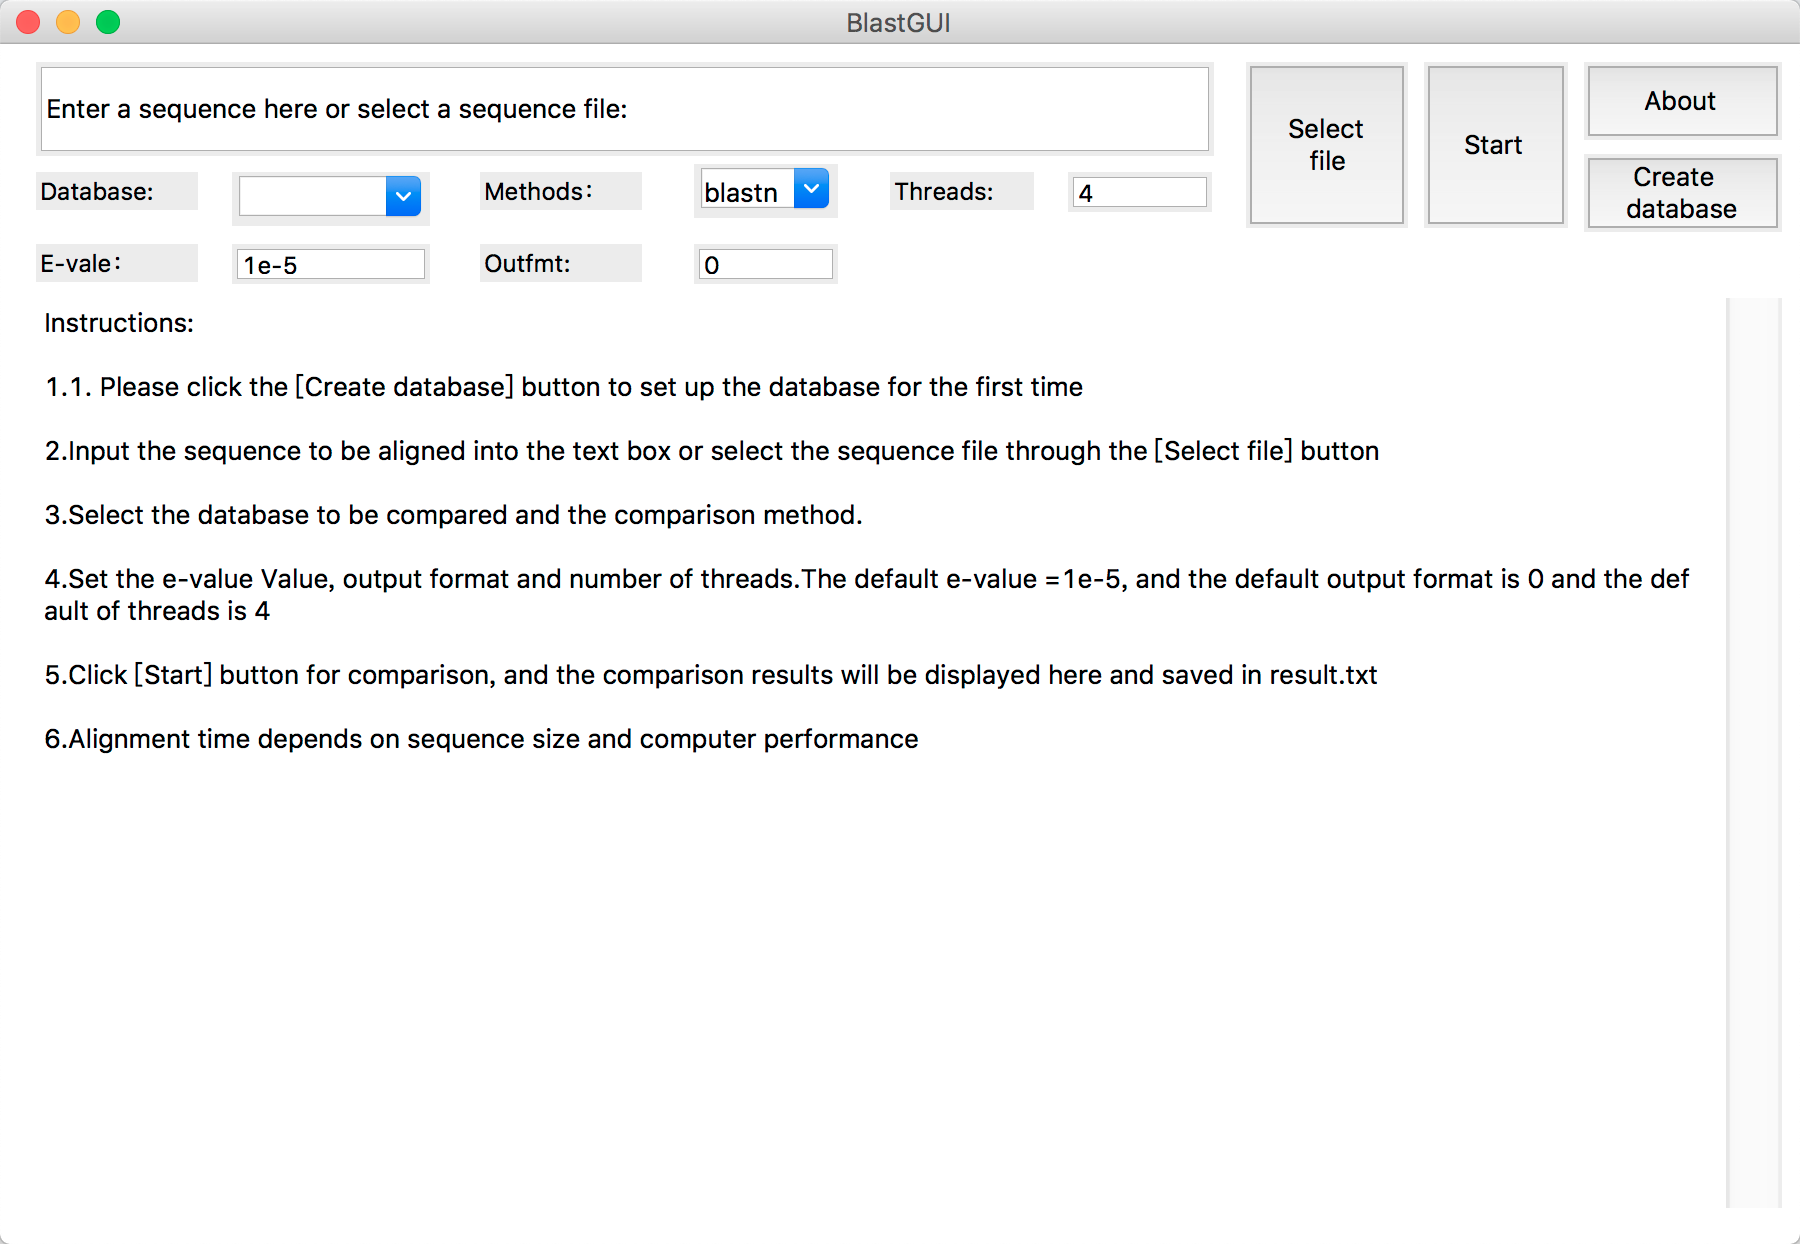
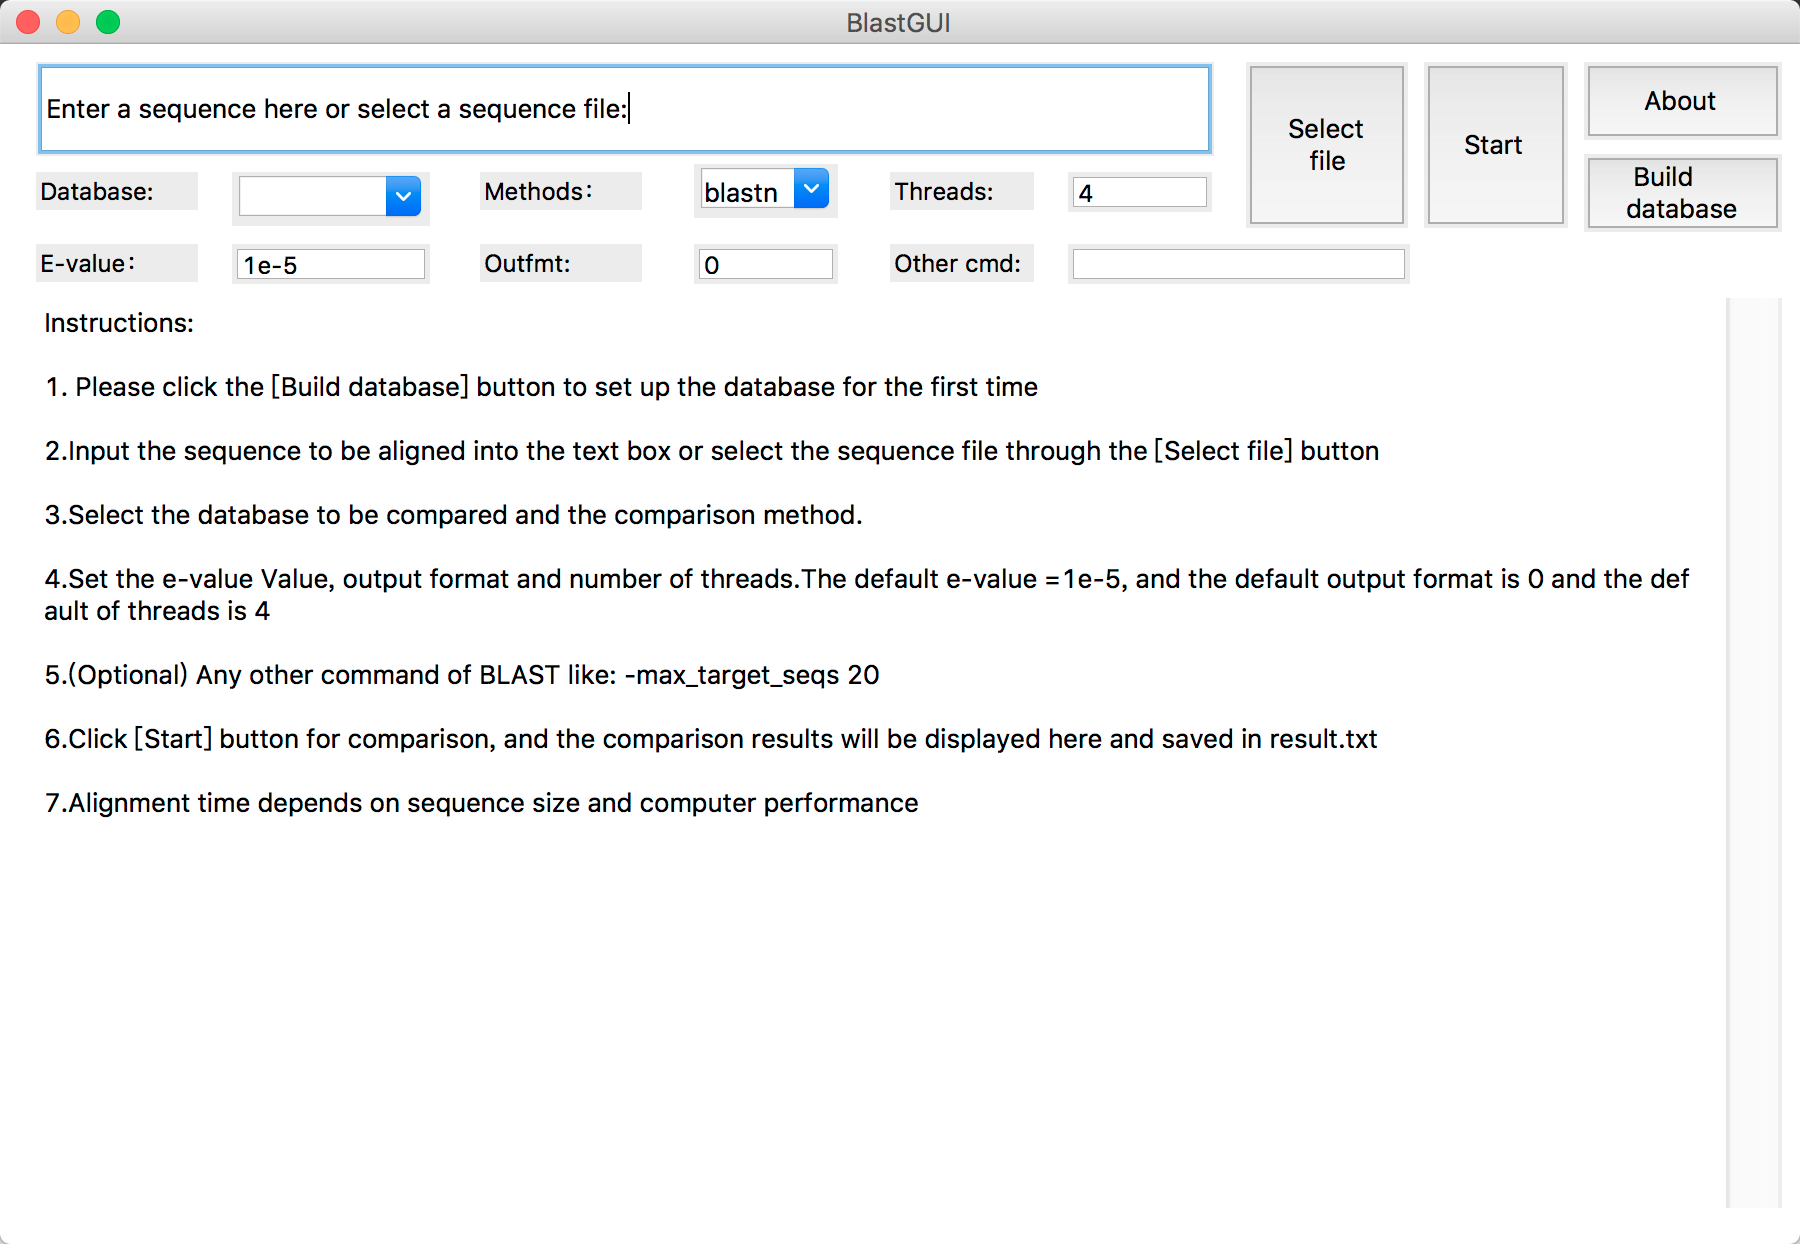
Add files via upload

diff --git a/BlastGUI/blastGUI_1.0.py b/BlastGUI/blastGUI_1.0.py
@@ -1,0 +1,282 @@
+#!/usr/bin/env python
+# -*- coding:utf-8 -*-
+# Author：Wu Qing
+# E-mail: cipn@qq.com
+
+import os
+import re
+import subprocess
+from tkinter import *
+from tkinter.font import Font
+from tkinter.ttk import *
+from tkinter.messagebox import *
+import tkinter.filedialog
+import tkinter.simpledialog
+from tkinter.ttk import Style
+import shutil
+
+
+def make_db():
+    def make_db_button_cmd():
+        if fndb == '':
+            return showinfo(title='warning', message='The build database file is not selected!')
+        if mkdb_type.get() != 'Nucleic acid sequence' and mkdb_type.get() != 'Protein sequence':
+            return showinfo(title='warning', message='The database type is not selected!')
+        if db_name_input.get() == '':
+            return showinfo(title='warning', message='Database name is not set!')
+        if mkdb_type.get() == 'Nucleic acid sequence':
+            t = 'nucl'
+        if mkdb_type.get() == 'Protein sequence':
+            t = 'prot'
+        n = db_name_input.get()
+        p = subprocess.Popen(
+            "makeblastdb -parse_seqids -in " + fndb + " -dbtype " + t + " -title " + n + " -out " + n,
+            shell=True, stdout=subprocess.PIPE)
+        p.wait()
+        out = p.stdout.readlines()
+        if p.returncode == 0:
+            showinfo(title="info", message="Database builded successfully!")
+            makedb_state.delete(0.0, END)
+            for line in out:
+                makedb_state.insert("insert", line)
+        else:
+            showinfo(title="info", message="Database creation failed!")
+
+    def select_fadb_button_cmd():
+        global fndb
+        fndb = tkinter.filedialog.askopenfilename()
+        make_db_label.config(text="The files you selected:\n" + fndb)
+
+    def mkdb_instruction():
+        makedb_state.insert('1.0', "1. Click select file button to select FASTA file \n\n2. Select database type \n\
+            \n3. Enter the name of the database (no Spaces)\n\
+            \n4. Click Build database button to start database building \n\
+            \n5.After the database construction is completed, please restart this program to refresh the database list")
+
+    dbwindow = Tk()
+    dbwindow.title('Build database')
+    dbwindow.geometry('600x400')
+
+    mkdb_typeList = ['Nucleic acid sequence', 'Protein sequence', ]
+    mkdb_type = Combobox(dbwindow, text='Nucleic acid sequence', values=mkdb_typeList, font=('', 13))
+    mkdb_type.place(relx=0.394, rely=0.192, relwidth=0.251)
+
+    makedb_stateFont = Font(font=('', 13))
+    makedb_state = Text(dbwindow, font=makedb_stateFont)
+    makedb_state.place(relx=0.041, rely=0.505, relwidth=0.915, relheight=0.435)
+    mkdb_instruction()
+
+    style.configure('Tmake_db_button.TButton', font=('', 13))
+    make_db_button = Button(dbwindow, text='Build database', command=make_db_button_cmd, style='Tmake_db_button.TButton')
+    make_db_button.place(relx=0.705, rely=0.216, relwidth=0.251, relheight=0.219)
+
+    db_name_inputVar = StringVar(value='db')
+    db_name_input = Entry(dbwindow, textvariable=db_name_inputVar, font=('', 13))
+    db_name_input.place(relx=0.394, rely=0.336, relwidth=0.251, relheight=0.099)
+
+    style.configure('Tselect_fadb_button.TButton', font=('', 13))
+    select_fadb_button = Button(dbwindow, text='Select file', command=select_fadb_button_cmd, style='Tselect_fadb_button.TButton')
+    select_fadb_button.place(relx=0.705, rely=0.048, relwidth=0.251, relheight=0.123)
+
+    style.configure('Tdb_type_label.TLabel', anchor='w', font=('', 13))
+    db_type_label = Label(dbwindow, text='Select database type', style='Tdb_type_label.TLabel')
+    db_type_label.place(relx=0.041, rely=0.192, relwidth=0.272, relheight=0.099)
+
+    style.configure('Tdb_name.TLabel', anchor='w', font=('', 13))
+    db_name = Label(dbwindow, text='Set database name', style='Tdb_name.TLabel')
+    db_name.place(relx=0.041, rely=0.336, relwidth=0.272, relheight=0.099)
+
+    style.configure('Tmake_db_label.TLabel', anchor='center', font=('', 13))
+    make_db_label = Label(dbwindow, text='You did not select any files', style='Tmake_db_label.TLabel')
+    make_db_label.place(relx=0.041, rely=0.048, relwidth=0.602, relheight=0.105)
+
+    dbwindow.mainloop()
+
+
+def get_fasta():
+    input = fa_input.get()
+    tmp = ''.join(re.findall(r'[A-Za-z]', input))
+    if tmp == '':
+        showinfo(title='warning', message='Please enter the correct sequence')
+        return 1
+    else:
+        #tmp = str.upper(tmp)
+        with open("tmp.txt", "w+") as f:
+            f.write(tmp)
+        return 0
+
+
+
+# get database name list
+def get_db_name():
+    namelist = []
+    for fn in os.listdir(os.getcwd()):
+        if os.path.splitext(fn)[1] == '.phr' or os.path.splitext(fn)[1] == '.nhr':
+            fn = os.path.splitext(fn)[0]
+            namelist.append(fn)
+    return namelist
+
+
+# blast process
+def star():
+    fnfa_stat = "The files you selected:" + fnfa
+    fain_stat = fa_input.get()
+
+    if fnfa_stat == fain_stat:
+        fa = fnfa
+    else:
+        fa = 'tmp.txt'
+
+    b = subprocess.Popen(blast_type.get() + " -out result.txt -query " + fa + " -outfmt " + outfmt_input.get() +
+                         " -evalue " + evalue.get() + " -db " + db_type.get() + ' -num_threads ' + threat_input.get() + 
+                         ' ' + othercmd_input.get(),
+                         shell=True, stdout=subprocess.PIPE)
+    b.wait()
+
+    if b.returncode == 0:
+        result_output.delete(0.0, END)
+        with open("result.txt", "r") as result:
+            for line in result:
+                result_output.insert('insert', line)
+    else:
+        showinfo(title='warning', message='Wrong alignment!\nPlease make sure the parameters are set correctly!')
+
+
+def star_blast_cmd():
+    try:
+        os.remove((os.path.join(os.getcwd(), 'tmp.txt')))
+        os.remove((os.path.join(os.getcwd(), 'result.txt')))
+    finally:
+        if get_fasta() == 1:
+            return 1
+        if get_fasta() == 0:
+            star()
+            return 0
+
+
+def select_fa_button_Cmd():
+    global fnfa
+    fnfa = tkinter.filedialog.askopenfilename()
+    fa_input.delete(0, END)
+    if fnfa != '':
+        fa_input.insert(END, "The files you selected:" + fnfa)
+    else:
+        fa_input.insert(END, "Enter a sequence here or select a sequence file:")
+    pass
+
+
+
+def about_cmd():
+    showinfo(title='Abount', message='BlstaGUI\n\nAuthor：Wu Qing\n\nSichuan agricultural university,China\n\nVersion:V1.0')
+
+
+def main_instructions():
+    result_output.insert('1.0', 'Instructions:\n\n1. Please click the [Build database] button to set up the database for the first time\n \
+    \n2.Input the sequence to be aligned into the text box or select the sequence file through the [Select file] button \
+     \n\n3.Select the database to be compared and the comparison method.\n\n4.Set the e-value Value, output format and number of threads.The default e-value =1e-5, and the default output format is 0 and the default of threads is 4\n \
+     \n5.(Optional) Any other command of BLAST like: -max_target_seqs 20 \n\n6.Click [Start] button for comparison, and the comparison results will be displayed here and saved in result.txt\n\n7.Alignment time depends on sequence size and computer performance \
+     \n')
+
+
+def mkdb_window_cmd():
+    make_db()
+
+
+top = Tk()
+top.title('BlastGUI')
+top.geometry('900x600')
+
+style = Style()
+fnfa = ''
+fndb = ''
+
+db_typeList = get_db_name()
+db_type = Combobox(top, text='Select', values=db_typeList, font=('', 13))
+db_type.place(relx=0.129, rely=0.106, relwidth=0.11)
+
+blast_typeList = ['blastn', 'blastp', 'blastx', 'tblastn', 'tblastx', ]
+blast_typeVar = StringVar(value='blastn')
+blast_type = Combobox(top, textvariable=blast_typeVar, values=blast_typeList, font=('', 13))
+blast_type.place(relx=0.386, rely=0.1, relwidth=0.08)
+
+reault_scroll1 = Scrollbar(top, orient='vertical')
+reault_scroll1.place(relx=0.959, rely=0.212, relwidth=0.031, relheight=0.758)
+
+evalueVar = StringVar(value='1e-5')
+evalue = Entry(top, textvariable=evalueVar, font=('', 12))
+evalue.place(relx=0.129, rely=0.166, relwidth=0.11, relheight=0.034)
+
+result_outputFont = Font(font=('', 13))
+result_output = Text(top, yscrollcommand=reault_scroll1.set, font=result_outputFont)
+result_output.place(relx=0.02, rely=0.212, relwidth=0.931, relheight=0.773)
+main_instructions()
+reault_scroll1['command'] = result_output.yview
+
+star_blastVar = StringVar(value='Start')
+style.configure('Tstar_blast.TButton', background='#000000', font=('', 13))
+star_blast = Button(top, text='Start', textvariable=star_blastVar, command=star_blast_cmd, style='Tstar_blast.TButton')
+star_blast.place(relx=0.791, rely=0.015, relwidth=0.08, relheight=0.138)
+
+
+style.configure('Tselect_fa_button.TButton', background='#000000', font=('', 13))
+select_fa_button = Button(top, text='Select\n   file', command=select_fa_button_Cmd,
+                          style='Tselect_fa_button.TButton')
+select_fa_button.place(relx=0.692, rely=0.015, relwidth=0.09, relheight=0.138)
+
+fa_inputVar = StringVar(value='Enter a sequence here or select a sequence file:')
+fa_input = Entry(top, textvariable=fa_inputVar, font=('', 13))
+fa_input.place(relx=0.02, rely=0.015, relwidth=0.654, relheight=0.078)
+
+aboutVar = StringVar(value='About')
+style.configure('Tabout.TButton', font=('', 13))
+about = Button(top, text='About', textvariable=aboutVar, command=about_cmd, style='Tabout.TButton')
+about.place(relx=0.88, rely=0.015, relwidth=0.11, relheight=0.065)
+
+mkdb_windowVar = StringVar(value=' Build\ndatabase')
+style.configure('Tmkdb_window.TButton', font=('', 13))
+mkdb_window = Button(top, text='Build database', textvariable=mkdb_windowVar, command=mkdb_window_cmd, style='Tmkdb_window.TButton')
+mkdb_window.place(relx=0.88, rely=0.091, relwidth=0.11, relheight=0.065)
+
+evalue_labelVar = StringVar(value='E-value：')
+style.configure('Tevalue_label.TLabel', anchor='w', font=('', 12))
+evalue_label = Label(top, text='E-value', textvariable=evalue_labelVar, style='Tevalue_label.TLabel')
+evalue_label.place(relx=0.02, rely=0.166, relwidth=0.09, relheight=0.032)
+
+blast_select_labelVar = StringVar(value='Methods：')
+style.configure('Tblast_select_label.TLabel', anchor='w', font=('', 12))
+blast_select_label = Label(top, text='Methods', textvariable=blast_select_labelVar, style='Tblast_select_label.TLabel')
+blast_select_label.place(relx=0.267, rely=0.106, relwidth=0.09, relheight=0.032)
+
+db_selectVar = StringVar(value='Database:')
+style.configure('Tdb_select.TLabel', anchor='w', font=('', 12))
+db_select = Label(top, text='Database', textvariable=db_selectVar, style='Tdb_select.TLabel')
+db_select.place(relx=0.02, rely=0.106, relwidth=0.09, relheight=0.032)
+
+outfmt_labelVar = StringVar(value='Outfmt:')
+style.configure('Toutfmt_label.TLabel', anchor='w', font=('', 12))
+outfmt_label = Label(top, text='Outfmt', textvariable=outfmt_labelVar, style='Toutfmt_label.TLabel')
+outfmt_label.place(relx=0.267, rely=0.166, relwidth=0.09, relheight=0.032)
+
+outfmt_inputVar = StringVar(value='0')
+outfmt_input = Entry(top, textvariable=outfmt_inputVar, font=('', 12))
+outfmt_input.place(relx=0.386, rely=0.166, relwidth=0.08, relheight=0.034)
+
+threat_labelVar = StringVar(value='Threads:')
+style.configure('Tthreat_label.TLabel', anchor='w', font=('', 12))
+threat_label = Label(top, text='Threads:', textvariable=threat_labelVar, style='Tthreat_label.TLabel')
+threat_label.place(relx=0.494, rely=0.106, relwidth=0.08, relheight=0.032)
+
+threat_inputVar = StringVar(value='4')
+threat_input = Entry(top, textvariable=threat_inputVar, font=('', 12))
+threat_input.place(relx=0.593, rely=0.106, relwidth=0.08, relheight=0.034)
+
+othercmd_labelVar = StringVar(value='Other cmd:')
+style.configure('Tothercmd_label.TLabel', anchor='w', font=('', 12))
+othercmd_label = Label(top, text='other cmd', textvariable=othercmd_labelVar, style='Tothercmd_label.TLabel')
+othercmd_label.place(relx=0.494, rely=0.166, relwidth=0.08, relheight=0.032)
+
+othercmd_inputVar = StringVar(value=' ')
+othercmd_input = Entry(top, textvariable=othercmd_inputVar, font=('', 12))
+othercmd_input.place(relx=0.593, rely=0.166, relwidth=0.19, relheight=0.034)
+
+top.mainloop()
